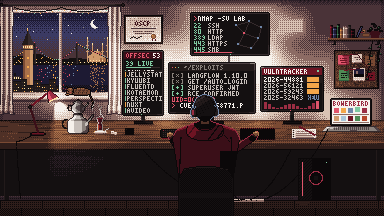
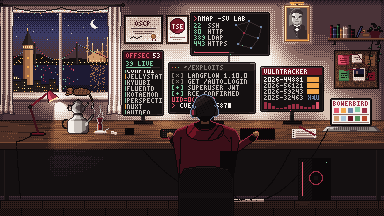
House wall: clickable OSCP credential, TSE certificate, Atatürk portrait
OSCP frame links to the OffSec credential (new tab, hover tag, outline,
keyboard and list link). Adds a TSE certificate frame and a gilt-framed
black-and-white Atatürk portrait with a picture light for night mode.
Homepage OSCP badge and JSON-LD credential link to the same URL.
Fallback PNGs regenerated.

diff --git a/assets/js/room.js b/assets/js/room.js
@@ -6,6 +6,7 @@ window.Room = { mount: function (container, opts) {
   opts = opts || {};
   var api = { repaint: function () {} };
   var HOTS = [
+    { id: 'oscp', href: 'https://credentials.offsec.com/21070920-f49d-4e30-a9d0-e420e69a5f6c', tag: 'OSCP credential ↗', cls: 'below', blank: true },
     { id: 'm4', href: 'https://dakcyber.com', tag: 'nmap · DAKCYBER pentest ↗', cls: 'below' },
     { id: 'm1', href: 'https://dakcyber.com/hizmetler/icerik-uretimi', tag: 'OffSec labs · 53 machines ↗' },
     { id: 'm2', href: 'https://github.com/0xdak?tab=repositories&q=CVE', tag: '16 CVE exploits · GitHub ↗' },
@@ -13,7 +14,7 @@ window.Room = { mount: function (container, opts) {
     { id: 'm5', href: 'https://getbowerbird.app', tag: 'Bowerbird ↗', end: true },
     { id: 'tea', tea: true, tag: 'çay iç' }
   ];
-  var LABEL = 'Pixel art of a room in Istanbul. Seen from behind, a person in a hoodie and headphones sits at a desk with four monitors and a laptop. A Turkish double teapot and a glass of tea steam on the desk, a cat sleeps on the windowsill, and the window looks out on Galata Tower, the Bosphorus bridge and a mosque on the far shore.';
+  var LABEL = 'Pixel art of a room in Istanbul. Seen from behind, a person in a hoodie and headphones sits at a desk with four monitors and a laptop. A Turkish double teapot and a glass of tea steam on the desk, a cat sleeps on the windowsill, a portrait of Mustafa Kemal Atatürk hangs beside a framed OSCP certificate and a TSE certificate, and the window looks out on Galata Tower, the Bosphorus bridge and a mosque on the far shore.';
   var d = document, H = d.documentElement;
   var RM = window.matchMedia ? matchMedia('(prefers-reduced-motion: reduce)') : { matches: false };
   var DARK = window.matchMedia ? matchMedia('(prefers-color-scheme: dark)') : { matches: true };
@@ -94,7 +95,7 @@ window.Room = { mount: function (container, opts) {
   /* ---------- layout ---------- */
   var PX = 206;
   var MON = { m1: [122, 50, 42, 66], m2: [168, 62, 88, 52], m3: [260, 66, 64, 46], m4: [190, 12, 80, 44], m5: [330, 98, 42, 28] };
-  var HOT = { m1: MON.m1, m2: MON.m2, m3: MON.m3, m4: MON.m4, m5: [330, 98, 42, 34], tea: [62, 94, 52, 42] };
+  var HOT = { m1: MON.m1, m2: MON.m2, m3: MON.m3, m4: MON.m4, m5: [330, 98, 42, 34], tea: [62, 94, 52, 42], oscp: [124, 15, 39, 29] };
   var BULBS = [];
   (function () { for (var k = 0; k < 16; k++) { var x = 16 + k * 6, mid = x < 61 ? 37.5 : 84.5, half = 23.5; BULBS.push([x, Math.round(8 + 4 * (1 - Math.pow((x - mid) / half, 2)))]); } })();
 
@@ -117,7 +118,7 @@ window.Room = { mount: function (container, opts) {
       }
       BULBS.forEach(function (b) { addRect(b[0], b[1], 1, 1, 8, .5); });
       addRect(13, 13, 96, 80, 34, .8);
-      addRect(284, 22, 16, 7, 20, 1.3);
+      addRect(285, 6, 24, 34, 6, 2); addRect(291, 4, 12, 1, 8, .8);
       addRect(302, 162, 1, 34, 14, .9);
     } else {
       addRect(13, 13, 96, 80, 70, .9);
@@ -196,6 +197,60 @@ window.Room = { mount: function (container, opts) {
     ln(130, 38, 133, 36, function (a, b) { p(a, b, DARK5, 3); }); ln(133, 36, 137, 38, function (a, b) { p(a, b, DARK5, 3); }); ln(137, 38, 141, 36, function (a, b) { p(a, b, DARK5, 3); });
     ell(AMB, 153.5, 36.5, 2.6, 2.6, function (u, w) { return u + w < -.4 ? 4 : 3; }, 2); p(152, 39, HOOD, 3); p(155, 39, HOOD, 3); p(152, 40, HOOD, 2); p(155, 40, HOOD, 2);
     for (k = 0; k < 6; k++) p(128 + k * 5, 19 + k * 4, PAP, 5);
+
+    // TSE certificate
+    shape(WOOD, 166, 15, 188, 43, function (px, py) { return (px < 168 || px > 186 || py < 17 || py > 41) ? (py < 17 || px < 168 ? 3 : 2) : 2; }, 1);
+    rect(168, 17, 19, 25, PAP, 5); rect(169, 18, 17, 23, PAP, 4.6);
+    ell(HOOD, 177.5, 26, 8, 8, function (u, w) { var q = u * u + w * w; return q > .78 ? 2.6 : 3.4; }, 2);
+    tx('TSE', 172, 24, 5, PAP);
+    rect(171, 37, 13, 1, PAP, 2.6); rect(173, 39, 9, 1, PAP, 3); p(170, 37, HOOD, 3.4); p(184, 37, HOOD, 3.4);
+
+    // portrait of Mustafa Kemal Atatürk: gilt frame, black-and-white studio photograph, brass picture light
+    shape(AMB, 284, 5, 309, 41, function (px, py) {
+      var r = Math.min(px - 284, 309 - px, py - 5, 41 - py);
+      if (r === 1) return (px === 285 || py === 6) ? ((px === 285 && py === 6) ? 4.4 : 3.6) : 2.4;
+      return r === 2 ? 1.6 : 2;
+    }, 1);
+    [[285, 6], [308, 6], [285, 40], [308, 40]].forEach(function (c) { p(c[0], c[1], AMB, 4.4); });
+    var ATA = [
+      '....................',
+      '........hhhh........',
+      '......hhHhhhhh......',
+      '.....hhHhhHhhhh.....',
+      '....hhHhhHhhHhhh....',
+      '....hhLLffffhhhh....',
+      '....hLLLffffffFh....',
+      '.....fLLfffffFF.....',
+      '.....eeeLfffeee.....',
+      '.....fFofffFoFF.....',
+      '.....LfffLnfffF.....',
+      '.....LfffnnfffF.....',
+      '.....LffffffffF.....',
+      '.....fffmmmmfFF.....',
+      '......fffffffF......',
+      '.......ffffFF.......',
+      '........sFFs........',
+      '...kkkkccFFcckkkk...',
+      '..kkkkKttwwttKkkkk..',
+      '..kkkkKttttttKkkkk..',
+      '..kkkkKttwwttKkkkk..',
+      '.kkkkkkKwwwwKkkkkk..',
+      'kkkkkkkkKwwKkkkkkkkk',
+      'kkkkkkkkkKKkkkkkkkkk',
+      'kkkkkkkkkkKkkkkkkkkk',
+      'kkkkkkkkkbKkkkkkkkkk',
+      'kkkkkkkkkkKkkkkkkkkk',
+      'kkkkkkkkkkKkkkkkkkkk',
+      'kkkkkkkkkbKkkkkkkkkk',
+      'kkkkkkkkkkKkkkkkkkkk',
+      'kkkkkkkkkkKkkkkkkkkk'
+    ], ASH = { h: 1, H: 1.8, L: 4.8, f: 4, F: 3, s: 2, e: .6, o: .4, n: 3, m: 2.6, c: 5, w: 4.6, t: .3, k: 1, K: 1.8, b: 2.6 };
+    for (y = 0; y < 31; y++) for (x = 0; x < 20; x++) {
+      var ch = ATA[y].charAt(x), dxp = (x - 9.5) / 10, dyp = (y - 12) / 16;
+      p(287 + x, 8 + y, STEEL, ch === '.' ? 2.4 - .6 * (dxp * dxp + dyp * dyp) : ASH[ch]);
+    }
+    rect(290, 2, 14, 2, AMB, 3); rect(290, 2, 14, 1, AMB, 4); rect(296, 4, 2, 1, DARK5, 2.5);
+    if (night) for (x = 291; x < 303; x++) if (x < 296 || x > 297) p(x, 4, 0, x % 2 ? 25 : 24);
 
 
     // shelf, books, duck, pot
@@ -437,7 +492,7 @@ window.Room = { mount: function (container, opts) {
     for (k = 0; k < 5; k++) er(Math.round(X + 2 + k * 7 + (k === 4 ? sl : 0)), Y + 16, 5, 5, B[k]);
     er(X + 1, Y + 22, 36, 1, 10);
     CL = null;
-    if (hov && MON[hov]) { var r = MON[hov]; er(r[0] - 1, r[1] - 1, r[2] + 2, 1, 15); er(r[0] - 1, r[1] + r[3], r[2] + 2, 1, 15); er(r[0] - 1, r[1], 1, r[3], 15); er(r[0] + r[2], r[1], 1, r[3], 15); }
+    var r = hov && (MON[hov] || (hov === 'oscp' ? HOT.oscp : null)); if (r) { er(r[0] - 1, r[1] - 1, r[2] + 2, 1, 15); er(r[0] - 1, r[1] + r[3], r[2] + 2, 1, 15); er(r[0] - 1, r[1], 1, r[3], 15); er(r[0] + r[2], r[1], 1, r[3], 15); }
   }
 
   /* ---------- live bits: lights, cat, plant, tea, person ---------- */
@@ -684,7 +739,7 @@ window.Room = { mount: function (container, opts) {
   HOTS.forEach(function (h) {
     var el = d.createElement(h.tea ? 'button' : 'a');
     el.className = 'hot' + (h.cls ? ' ' + h.cls : ''); el.id = 'h-' + h.id;
-    if (h.tea) { el.type = 'button'; el.setAttribute('aria-label', 'Have a sip of tea'); } else el.href = h.href;
+    if (h.tea) { el.type = 'button'; el.setAttribute('aria-label', 'Have a sip of tea'); } else { el.href = h.href; if (h.blank) { el.target = '_blank'; el.rel = 'noopener'; } }
     var tg = d.createElement('span'); tg.className = 'tag'; tg.textContent = h.tag; if (h.tea) tg.setAttribute('aria-hidden', 'true');
     el.appendChild(tg); scene.appendChild(el); hotEls[h.id] = el;
     function on() { if (scene.classList.contains('cine')) return; hov = h.id; paint(); } function off() { if (hov === h.id) hov = null; paint(); }

diff --git a/index.html b/index.html
@@ -62,7 +62,7 @@
 </script>
 
 <script type="application/ld+json">
-{"@context":"https://schema.org","@type":"Person","name":"Ali Dak","alternateName":"yuznumara","url":"https://yuznumara.com","jobTitle":"Security researcher, founder","worksFor":{"@type":"Organization","name":"DAKCYBER","url":"https://dakcyber.com"},"founder":[{"@type":"Organization","name":"DAKCYBER","url":"https://dakcyber.com"}],"hasCredential":{"@type":"EducationalOccupationalCredential","name":"OSCP (Offensive Security Certified Professional)","recognizedBy":{"@type":"Organization","name":"OffSec"}},"knowsAbout":["Penetration testing","Vulnerability research","Web application security","Active Directory security","Exploit development"],"address":{"@type":"PostalAddress","addressLocality":"Istanbul","addressCountry":"TR"},"sameAs":["https://x.com/0xdak_","https://github.com/0xdak","https://www.linkedin.com/in/ali-dak"]}
+{"@context":"https://schema.org","@type":"Person","name":"Ali Dak","alternateName":"yuznumara","url":"https://yuznumara.com","jobTitle":"Security researcher, founder","worksFor":{"@type":"Organization","name":"DAKCYBER","url":"https://dakcyber.com"},"founder":[{"@type":"Organization","name":"DAKCYBER","url":"https://dakcyber.com"}],"hasCredential":{"@type":"EducationalOccupationalCredential","name":"OSCP (Offensive Security Certified Professional)","url":"https://credentials.offsec.com/21070920-f49d-4e30-a9d0-e420e69a5f6c","recognizedBy":{"@type":"Organization","name":"OffSec"}},"knowsAbout":["Penetration testing","Vulnerability research","Web application security","Active Directory security","Exploit development"],"address":{"@type":"PostalAddress","addressLocality":"Istanbul","addressCountry":"TR"},"sameAs":["https://x.com/0xdak_","https://github.com/0xdak","https://www.linkedin.com/in/ali-dak"]}
 </script>
 
 <style>
@@ -435,7 +435,7 @@ dialog iframe { display: block; width: 100%; height: min(640px, 75vh); border: 0
       <p class="role"><b>Ali Dak</b><span class="sep">/</span>Security researcher &amp; founder<span class="sep">/</span>Istanbul</p>
       <p class="pitch">I break into web apps, APIs, mobile apps, Active Directory and internal networks, then build products from what I learn.</p>
       <ul class="proof" aria-label="Track record">
-        <li><b>OSCP</b></li>
+        <li><a href="https://credentials.offsec.com/21070920-f49d-4e30-a9d0-e420e69a5f6c" target="_blank" rel="noopener"><b>OSCP</b> <span aria-hidden="true">↗</span></a></li>
         <li><a href="#research"><b>53</b> OffSec machines</a></li>
         <li><a href="#exploits"><b>16</b> public CVE exploits</a></li>
         <li>Founder, <a href="#dakcyber"><b>DAKCYBER</b></a></li>

diff --git a/house.html b/house.html
@@ -111,6 +111,7 @@ footer { margin-top: 4rem; border-top: 1px solid var(--line); padding: 1.5rem 0 
   <p class="hint">Hover or tap a screen. Click the tea to take a sip.</p>
 
   <ul class="screens" aria-label="What is on the screens">
+    <li><a href="https://credentials.offsec.com/21070920-f49d-4e30-a9d0-e420e69a5f6c" target="_blank" rel="noopener">Wall · OSCP certificate</a><span>OffSec credential</span></li>
     <li><a href="https://github.com/0xdak?tab=repositories&amp;q=CVE">Center · exploit runs</a><span>16 public CVE exploits on GitHub</span></li>
     <li><a href="https://vulntracker.io">Right · VulnTracker dashboard</a><span>vulntracker.io</span></li>
     <li><a href="https://dakcyber.com">Top · nmap and a network graph</a><span>DAKCYBER pentest services</span></li>
